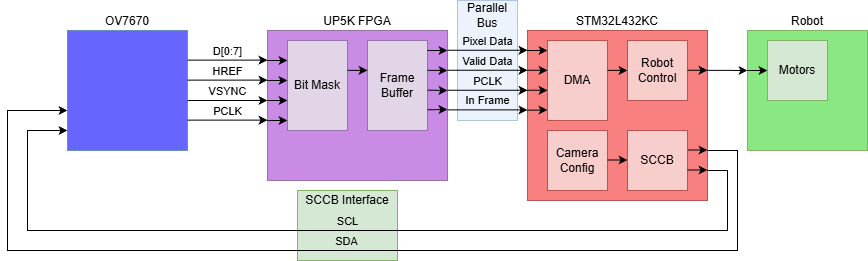
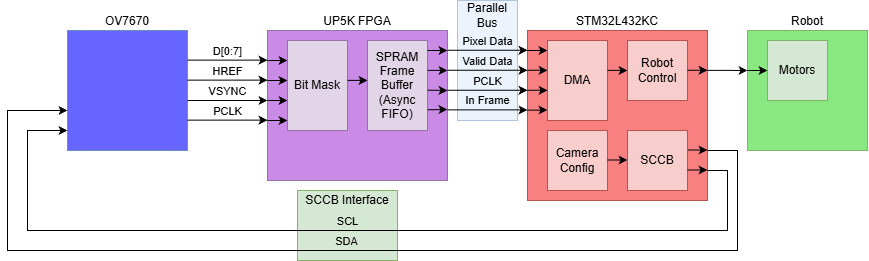
Built site for gh-pages

diff --git a/deliverables/midpoint.html b/deliverables/midpoint.html
@@ -116,8 +116,20 @@ ul.task-list li input[type="checkbox"] {
     <h2 id="toc-title">On this page</h2>
    
   <ul>
-  <li><a href="#progress-report" id="toc-progress-report" class="nav-link active" data-scroll-target="#progress-report">Progress Report</a></li>
-  <li><a href="#documentation" id="toc-documentation" class="nav-link" data-scroll-target="#documentation">Documentation</a></li>
+  <li><a href="#progress-report" id="toc-progress-report" class="nav-link active" data-scroll-target="#progress-report">Progress Report</a>
+  <ul class="collapse">
+  <li><a href="#overall-progress" id="toc-overall-progress" class="nav-link" data-scroll-target="#overall-progress">Overall Progress</a></li>
+  <li><a href="#riskiest-element" id="toc-riskiest-element" class="nav-link" data-scroll-target="#riskiest-element">Riskiest Element</a></li>
+  <li><a href="#summary-of-remaining-work" id="toc-summary-of-remaining-work" class="nav-link" data-scroll-target="#summary-of-remaining-work">Summary of Remaining Work</a></li>
+  </ul></li>
+  <li><a href="#documentation" id="toc-documentation" class="nav-link" data-scroll-target="#documentation">Documentation</a>
+  <ul class="collapse">
+  <li><a href="#schematic" id="toc-schematic" class="nav-link" data-scroll-target="#schematic">Schematic</a></li>
+  <li><a href="#block-diagram" id="toc-block-diagram" class="nav-link" data-scroll-target="#block-diagram">Block Diagram</a></li>
+  <li><a href="#mcu-routine-overview" id="toc-mcu-routine-overview" class="nav-link" data-scroll-target="#mcu-routine-overview">MCU Routine Overview</a></li>
+  <li><a href="#fpga-code" id="toc-fpga-code" class="nav-link" data-scroll-target="#fpga-code">FPGA Code</a></li>
+  <li><a href="#mcu-code" id="toc-mcu-code" class="nav-link" data-scroll-target="#mcu-code">MCU Code</a></li>
+  </ul></li>
   </ul>
 </nav>
     </div>
@@ -163,13 +175,50 @@ ul.task-list li input[type="checkbox"] {
 </header>
 
 
-<section id="progress-report" class="level3">
-<h3 class="anchored" data-anchor-id="progress-report">Progress Report</h3>
+<section id="progress-report" class="level2">
+<h2 class="anchored" data-anchor-id="progress-report">Progress Report</h2>
+<section id="overall-progress" class="level3">
+<h3 class="anchored" data-anchor-id="overall-progress">Overall Progress</h3>
+<p>As of the midpoint report being written, the team has accomplished the following: - Configuration of the OV7670 camera module through register writes from the MCU over an I2C interface - Pixel data capture from the OV7670 camera module on the FPGA - Streaming bit-masked pixel data from the FPGA to the MCU over a 1-directional parallel bus - Full bit-masked frame capture and display on the MCU using GPIO polling</p>
+<p>As a reminder, the overall specs for the project are listed below, with the already-completed specs checked off.</p>
+<ul class="task-list">
+<li><label><input type="checkbox">Robot follows a black line without significant deviation</label></li>
+<li><label><input type="checkbox">Robot doesn’t move if no line is detected</label></li>
+<li><label><input type="checkbox" checked="">Design allows user to configure threshold for line being detected</label></li>
+<li><label><input type="checkbox">Robot uses camera as vision interface</label></li>
+<li><label><input type="checkbox" checked="">FPGA receives pixel data from OV7670</label></li>
+<li><label><input type="checkbox" checked="">FPGA sends masked frame data to MCU over a communication interface</label></li>
+<li><label><input type="checkbox" checked="">MCU configures registers on OV7670 over SCCB/I2C interface</label></li>
+<li><label><input type="checkbox" checked="">MCU is able to receive full frames from FPGA</label></li>
+</ul>
+<p>At this point in the project, the team believes that the riskiest elements have been completed, as the camera is now able to be configured, and camera data is captured by the FPGA, analyzed, and sent to the MCU.</p>
 </section>
-<section id="documentation" class="level3">
-<h3 class="anchored" data-anchor-id="documentation">Documentation</h3>
-<section id="schematic" class="level4">
-<h4 class="anchored" data-anchor-id="schematic">Schematic</h4>
+<section id="riskiest-element" class="level3">
+<h3 class="anchored" data-anchor-id="riskiest-element">Riskiest Element</h3>
+<p>Prior to beginning work on the project, the team identified the riskiest element as configuring the OV7670 CMOS camera using the MCU over the SCCB interface. This was because there weren’t many examples on how to implement this interface, which created the possibility of the team needing to bit-bang our own SCCB interface, which is similar to I2C but has some quite relevant differences, the main one being that the SCCB controller on the OV7670 sends a “don’t care” bit as the 9th bit, while the I2C interface on the MCU expects an “ACK” bit to be sent from the OV7670 to acknowledge data. However, the team was succesfully able to configure the OV7670 using the I2C peripheral on the MCU.</p>
+</section>
+<section id="summary-of-remaining-work" class="level3">
+<h3 class="anchored" data-anchor-id="summary-of-remaining-work">Summary of Remaining Work</h3>
+<p>Now that the team is receiving full frames on the MCU, the remaining work can be broken into three phases.</p>
+<section id="phase-1-finalizing-fpga-mcu-code" class="level4">
+<h4 class="anchored" data-anchor-id="phase-1-finalizing-fpga-mcu-code">Phase 1: Finalizing FPGA &amp; MCU Code</h4>
+<p>Currently, the FPGA sends the MCU a pixel as soon as it finishes bit-masking it. For the final design, the goal will be to implement an asynchronous FIFO using the SPRAM on the MCU, so that full frames can be read much quicker, leaving time for robot control.</p>
+</section>
+<section id="phase-2-mechanical-design" class="level4">
+<h4 class="anchored" data-anchor-id="phase-2-mechanical-design">Phase 2: Mechanical Design</h4>
+<p>Although the team has purchased a robot kit, some design considerations need to be taken into account, as the camera needs to be mounted on the robot along with the rest of the parts. The camera module will likely need a light mounted near it to illuminate the track, which would also require the integration of a lens hood.</p>
+</section>
+<section id="phase-3-system-integration-testing" class="level4">
+<h4 class="anchored" data-anchor-id="phase-3-system-integration-testing">Phase 3: System Integration &amp; Testing</h4>
+<p>Once the peripherals are fully integrated and mounted on the robot chassis, the team expects that there will be significant work left to do on tuning the control system on the MCU, as well as tuning camera exposure settings to improve line recognition. Also, the field of view of the camera will need to be determined, and the camera will potentially need to be focused.</p>
+</section>
+</section>
+</section>
+<section id="documentation" class="level2">
+<h2 class="anchored" data-anchor-id="documentation">Documentation</h2>
+<section id="schematic" class="level3">
+<h3 class="anchored" data-anchor-id="schematic">Schematic</h3>
+<p>The team has created a semi-finalized schematic representing all the connections between the different peripherals in the system, which can be seen below.</p>
 <div class="quarto-figure quarto-figure-center">
 <figure class="figure">
 <p><img src="..\images/midpoint/schematic.png" class="img-fluid figure-img"></p>
@@ -177,13 +226,56 @@ ul.task-list li input[type="checkbox"] {
 </figure>
 </div>
 </section>
-<section id="block-diagram" class="level4">
-<h4 class="anchored" data-anchor-id="block-diagram">Block Diagram</h4>
+<section id="block-diagram" class="level3">
+<h3 class="anchored" data-anchor-id="block-diagram">Block Diagram</h3>
+<p>The block diagram has been updated slightly since the proposal to reflect some of the changes in the design methodology.</p>
 <div class="quarto-figure quarto-figure-center">
 <figure class="figure">
 <p><img src="..\images/midpoint/block_diagram.png" class="img-fluid figure-img"></p>
 <figcaption>Block Diagram</figcaption>
 </figure>
+</div>
+</section>
+<section id="mcu-routine-overview" class="level3">
+<h3 class="anchored" data-anchor-id="mcu-routine-overview">MCU Routine Overview</h3>
+<p>Currently, the MCU uses a super loop and polling to capture frame data. Eventually, the hope is to use FreeRTOS, although that is not a spec for the project because it’s a stretch goal. The current routine involves waiting for the frame-active pin to go high, then reading pixel data on the falling edge of PCLK when the pixel data is valid. The pixel data is currently stored in RAM on the MCU, as each frame is only 9.6kB, so one frame can be stored in RAM at a time. Once the asynchronous FIFO has been implemented on the FPGA, the entire frame will be streamed to the MCU, so the MCU will not need to check whether the data is valid. When combined with DMA for frame capture, this will allow for much faster frame reads and will decrease the amount of dropped frames.</p>
+</section>
+<section id="fpga-code" class="level3">
+<h3 class="anchored" data-anchor-id="fpga-code">FPGA Code</h3>
+<div class="callout callout-style-default callout-note callout-titled">
+<div class="callout-header d-flex align-content-center" data-bs-toggle="collapse" data-bs-target=".callout-1-contents" aria-controls="callout-1" aria-expanded="false" aria-label="Toggle callout">
+<div class="callout-icon-container">
+<i class="callout-icon"></i>
+</div>
+<div class="callout-title-container flex-fill">
+(Click to expand)
+</div>
+<div class="callout-btn-toggle d-inline-block border-0 py-1 ps-1 pe-0 float-end"><i class="callout-toggle"></i></div>
+</div>
+<div id="callout-1" class="callout-1-contents callout-collapse collapse">
+<div class="callout-body-container callout-body">
+<script src="https://gist.github.com/aabhassenapati/e77423c2d91fbf9056ab3fa485d4000d.js"></script>
+</div>
+</div>
+</div>
+</section>
+<section id="mcu-code" class="level3">
+<h3 class="anchored" data-anchor-id="mcu-code">MCU Code</h3>
+<div class="callout callout-style-default callout-note callout-titled">
+<div class="callout-header d-flex align-content-center" data-bs-toggle="collapse" data-bs-target=".callout-2-contents" aria-controls="callout-2" aria-expanded="false" aria-label="Toggle callout">
+<div class="callout-icon-container">
+<i class="callout-icon"></i>
+</div>
+<div class="callout-title-container flex-fill">
+(Click to expand)
+</div>
+<div class="callout-btn-toggle d-inline-block border-0 py-1 ps-1 pe-0 float-end"><i class="callout-toggle"></i></div>
+</div>
+<div id="callout-2" class="callout-2-contents callout-collapse collapse">
+<div class="callout-body-container callout-body">
+<script src="https://gist.github.com/aabhassenapati/b81cd31ee481d1ba313c595e8b905c53.js"></script>
+</div>
+</div>
 </div>
 
 

diff --git a/deliverables.html b/deliverables.html
@@ -199,7 +199,7 @@ window.Quarto = {
 
 <div class="quarto-listing quarto-listing-container-default" id="listing-listing">
 <div class="list quarto-listing-default">
-<div class="quarto-post image-right" data-index="0" data-categories="ZGVsaXZlcmFibGVz" data-listing-date-sort="1763625600000" data-listing-file-modified-sort="1763697967695" data-listing-date-modified-sort="NaN" data-listing-reading-time-sort="1" data-listing-word-count-sort="6">
+<div class="quarto-post image-right" data-index="0" data-categories="ZGVsaXZlcmFibGVz" data-listing-date-sort="1763625600000" data-listing-file-modified-sort="1763700059747" data-listing-date-modified-sort="NaN" data-listing-reading-time-sort="4" data-listing-word-count-sort="743">
 <div class="thumbnail"><a href="./deliverables/midpoint.html" class="no-external">
 
 <p class="card-img-top"><img src="images\midpoint\schematic.png"  class="thumbnail-image card-img"/></p>
@@ -224,7 +224,7 @@ Aabhas Senapati &amp; Diego Weiss
 </a>
 </div>
 </div>
-<div class="quarto-post image-right" data-index="1" data-categories="ZGVsaXZlcmFibGVz" data-listing-date-sort="1760511600000" data-listing-file-modified-sort="1763697927939" data-listing-date-modified-sort="NaN" data-listing-reading-time-sort="5" data-listing-word-count-sort="870">
+<div class="quarto-post image-right" data-index="1" data-categories="ZGVsaXZlcmFibGVz" data-listing-date-sort="1760511600000" data-listing-file-modified-sort="1763698632370" data-listing-date-modified-sort="NaN" data-listing-reading-time-sort="5" data-listing-word-count-sort="872">
 <div class="thumbnail"><a href="./deliverables/proposal.html" class="no-external">
 
 <p class="card-img-top"><img src="images\proposal\block_diagram_1.png"  class="thumbnail-image card-img"/></p>

diff --git a/deliverables/proposal.html b/deliverables/proposal.html
@@ -217,13 +217,13 @@ window.Quarto = {
 <section id="specifications" class="level2">
 <h2 class="anchored" data-anchor-id="specifications">Specifications</h2>
 <ul>
-<li>Robot follows a black line without significant deviation</li>
+<li>Robot follows a black line on white paper without significant deviation</li>
 <li>Robot doesn’t move if no line is detected</li>
-<li>Design allows user to configure threshold for line being detected</li>
 <li>Robot uses camera as vision interface</li>
 <li>FPGA receives pixel data from OV7670</li>
-<li>FPGA sends masked frame data to MCU over a communication interface</li>
+<li>FPGA sends masked pixel data to MCU over a communication interface</li>
 <li>MCU configures registers on OV7670 over SCCB/I2C interface</li>
+<li>MCU is able to receive full frames from FPGA</li>
 </ul>
 </section>
 <section id="design-details" class="level2">
